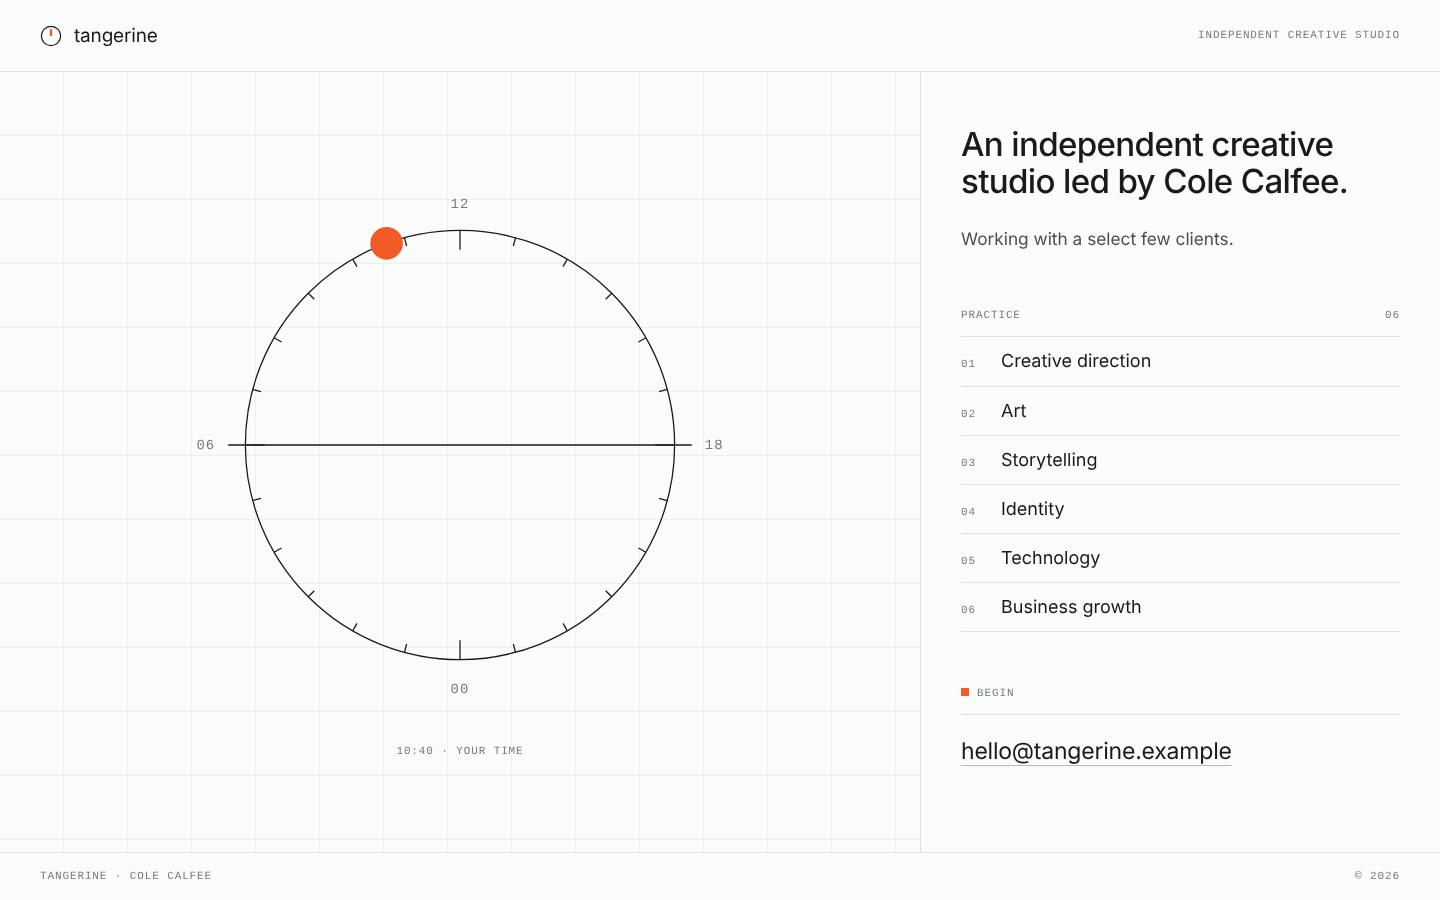
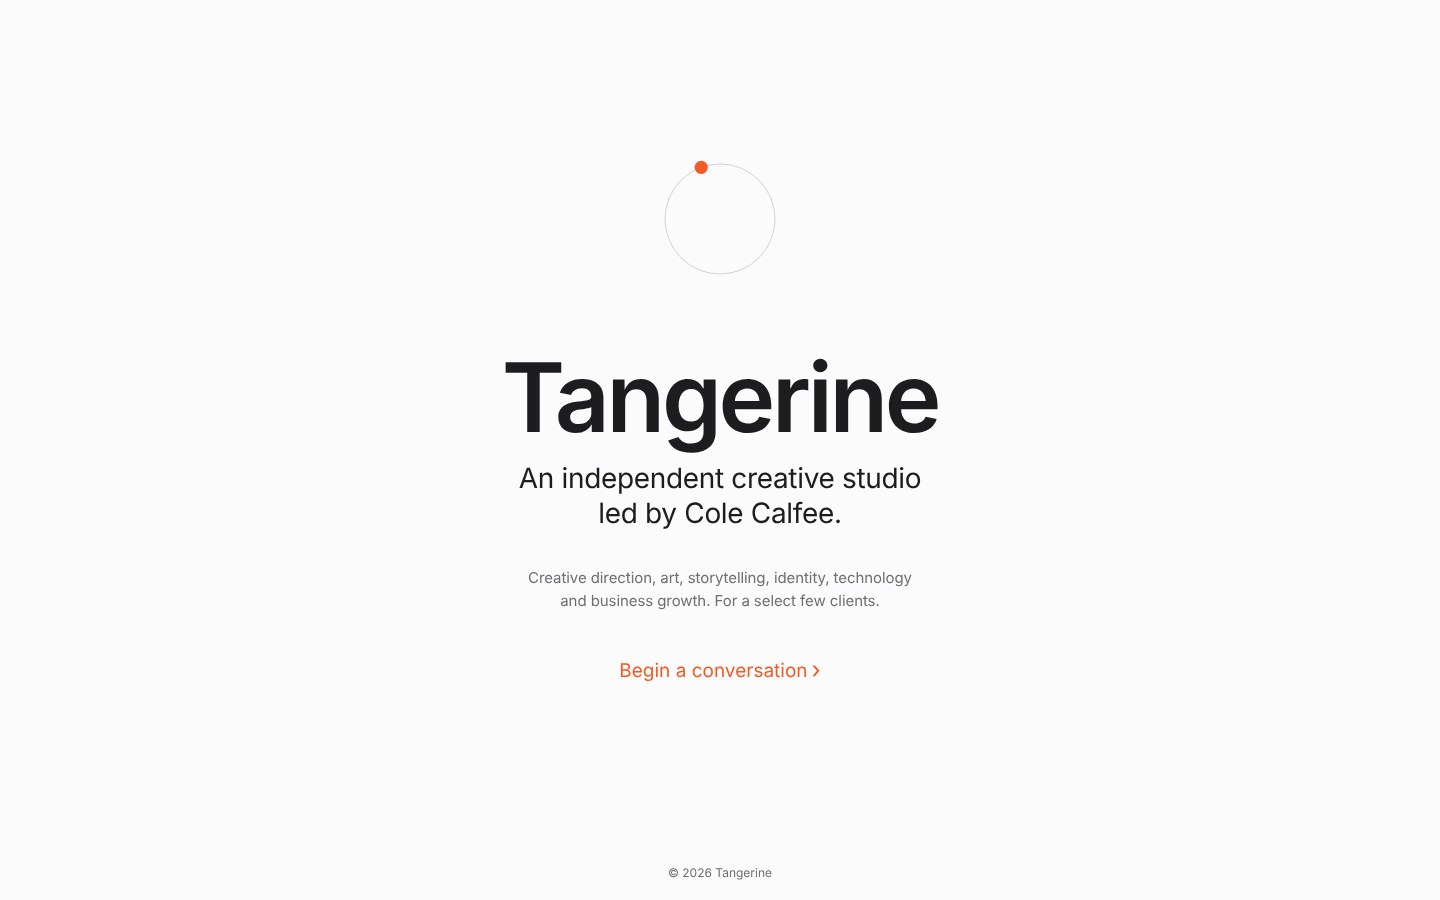
Distill studio site to a single Apple-like statement
One centred column: a thin ring whose tangerine dot is the sun at the
visitor's time, the name, one sentence, one line of disciplines and a
single link. System (SF) type, no panel, no grid, no labels.

Claude-Session: https://claude.ai/code/session_01GZLWUpjU4GW8qd2ooynPk6

diff --git a/site/assets/css/site.css b/site/assets/css/site.css
@@ -1,24 +1,14 @@
 /*
  * Tangerine — studio site.
- * Same system as the instrument studies: cyber white, hairlines, black type,
- * mono metadata, one tangerine signal. Static by default.
+ * One object, one name, one sentence, one way in.
  */
 :root {
-  --paper: #FAFBFB;
-  --paper-2: #F2F3F3;
-  --ink: #181A1B;
-  --ink-2: #4A4E50;
-  --grey: #767B7D;
-  --grey-2: #B7BBBC;
-  --rule: #DFE2E2;
-  --grid: #EEF0F0;
+  --paper: #FBFBFB;
+  --ink: #1D1D1F;
+  --grey: #6E6E73;
+  --ring: #D2D2D7;
   --tangerine: #F25A28;
-
-  --sans: "Helvetica Neue", Helvetica, Arial, system-ui, sans-serif;
-  --mono: ui-monospace, "SF Mono", Menlo, Consolas, "Liberation Mono", monospace;
-
-  --pad: clamp(20px, 3vw, 40px);
-  --bar: 72px;
+  --sans: -apple-system, BlinkMacSystemFont, "SF Pro Display", "SF Pro Text", "Helvetica Neue", Helvetica, Arial, system-ui, sans-serif;
   color-scheme: light;
 }
 
@@ -26,94 +16,48 @@
 html { -webkit-text-size-adjust: 100%; text-size-adjust: 100%; }
 body {
   margin: 0; min-height: 100vh; min-height: 100svh;
-  display: grid; grid-template-rows: auto 1fr auto;
+  display: grid; grid-template-rows: 1fr auto;
   background: var(--paper); color: var(--ink);
-  font: 400 16px/1.45 var(--sans);
-  -webkit-font-smoothing: antialiased;
+  font-family: var(--sans);
+  -webkit-font-smoothing: antialiased; -moz-osx-font-smoothing: grayscale;
 }
-h1, h2, p, ol, figure { margin: 0; }
-ol { padding: 0; list-style: none; }
-a { color: inherit; }
-:focus-visible { outline: none; box-shadow: 0 0 0 1px var(--paper), 0 0 0 2px var(--ink); }
-::selection { background: var(--ink); color: var(--paper); }
+h1, p { margin: 0; }
+::selection { background: var(--tangerine); color: #fff; }
 
-.meta {
-  font: 400 11px/1.3 var(--mono);
-  letter-spacing: .08em; text-transform: uppercase;
-  color: var(--grey); font-variant-numeric: tabular-nums;
+main {
+  display: flex; flex-direction: column; align-items: center; justify-content: center;
+  text-align: center;
+  padding: 72px 24px;
 }
 
-/* Bars */
-.bar {
-  display: flex; align-items: center; justify-content: space-between; gap: 16px;
-  min-height: var(--bar); padding: env(safe-area-inset-top) var(--pad) 0;
-  border-bottom: 1px solid var(--rule);
-}
-.bar-foot {
-  min-height: 48px; padding: 0 var(--pad) env(safe-area-inset-bottom);
-  border-bottom: 0; border-top: 1px solid var(--rule);
-}
-.brand { display: inline-flex; align-items: center; gap: 12px; min-height: 44px; text-decoration: none; font: 400 19px/1 var(--sans); letter-spacing: -.01em; }
-.mark { width: 22px; height: 22px; overflow: visible; }
-.mark circle { fill: none; stroke: var(--ink); stroke-width: 1.3; }
-.mark line { stroke: var(--tangerine); stroke-width: 2.4; }
+.object { width: clamp(88px, 11vw, 132px); height: auto; overflow: visible; margin-bottom: clamp(40px, 7vh, 64px); }
+.ring { fill: none; stroke: var(--ring); stroke-width: 1; vector-effect: non-scaling-stroke; }
+.sun { fill: var(--tangerine); }
 
-/* Face: a field and a panel, like the instrument */
-.face { display: grid; grid-template-columns: minmax(0, 1fr) minmax(360px, 520px); }
-.panel {
-  order: 2; border-left: 1px solid var(--rule);
-  padding: clamp(32px, 6vh, 64px) var(--pad);
-  display: grid; align-content: start; gap: clamp(36px, 6vh, 56px);
+h1 {
+  font-size: clamp(48px, 7.5vw, 96px); line-height: 1.04;
+  font-weight: 600; letter-spacing: -.035em;
 }
-.panel h1 { font: 500 clamp(28px, 2.3vw, 36px)/1.12 var(--sans); letter-spacing: -.02em; max-width: 14em; }
-.panel .sub { margin-top: -28px; font-size: clamp(17px, 1.2vw, 20px); color: var(--ink-2); }
-.row { display: flex; justify-content: space-between; align-items: center; padding-bottom: 14px; border-bottom: 1px solid var(--rule); }
-.signal { display: inline-block; width: 8px; height: 8px; margin-right: 8px; background: var(--tangerine); vertical-align: 0; }
-.list li {
-  display: flex; align-items: baseline; gap: 18px;
-  padding: 11px 0; border-bottom: 1px solid var(--rule);
-  font-size: 18px;
+.line {
+  margin-top: 14px;
+  font-size: clamp(21px, 2.4vw, 28px); line-height: 1.25;
+  font-weight: 400; letter-spacing: -.012em; text-wrap: balance;
 }
-.list .meta { min-width: 2em; }
-.email {
-  display: inline-block; margin-top: 16px; min-height: 44px; padding-top: 6px;
-  font: 400 clamp(20px, 1.6vw, 24px)/1.3 var(--sans); letter-spacing: -.01em;
-  text-decoration: underline; text-decoration-thickness: 1px; text-underline-offset: 6px;
-  text-decoration-color: var(--grey-2); overflow-wrap: anywhere;
+.small {
+  margin-top: clamp(28px, 4vh, 40px); max-width: 30em;
+  font-size: 15px; line-height: 1.5; color: var(--grey); letter-spacing: -.005em;
+  text-wrap: balance;
 }
-.email:hover { text-decoration-color: var(--tangerine); }
+.link {
+  margin-top: clamp(28px, 4vh, 40px);
+  display: inline-flex; align-items: center; gap: 4px; min-height: 44px;
+  font-size: clamp(17px, 1.6vw, 19px); color: var(--tangerine); text-decoration: none;
+}
+.link span { font-size: 1.25em; line-height: 1; transform: translateY(-1px); }
+.link:hover { text-decoration: underline; text-underline-offset: 4px; }
+.link:focus-visible { outline: 2px solid var(--tangerine); outline-offset: 4px; border-radius: 4px; }
 
-.field {
-  order: 1; position: relative;
-  display: grid; place-items: center; align-content: center; gap: 20px;
-  padding: var(--pad);
-  background-image:
-    linear-gradient(var(--grid) 1px, transparent 1px),
-    linear-gradient(90deg, var(--grid) 1px, transparent 1px);
-  background-size: 64px 64px; background-position: -1px -1px;
-}
-.orbit { width: min(100%, 62vh, 560px); height: auto; overflow: visible; }
-.orbit .track { fill: none; stroke: var(--ink); stroke-width: .6; }
-.orbit .horizon { stroke: var(--ink); stroke-width: .6; }
-.orbit .ticks line { stroke: var(--ink); stroke-width: .6; }
-.orbit text { font: 400 6.5px var(--mono); letter-spacing: .08em; fill: var(--grey); text-anchor: middle; dominant-baseline: middle; }
-.orbit text[text-anchor="start"] { text-anchor: start; }
-.orbit text[text-anchor="end"] { text-anchor: end; }
-.orbit .sun { fill: var(--tangerine); stroke: var(--tangerine); stroke-width: 1.2; }
-.orbit .sun.is-night { fill: var(--paper); }
-
-@media (max-width: 860px) {
-  .face { grid-template-columns: 1fr; }
-  .panel { order: 1; border-left: 0; }
-  .field { order: 2; border-top: 1px solid var(--rule); padding-block: 48px; }
-  .orbit { width: min(80vw, 380px); }
-}
-@media (max-width: 480px) {
-  .bar-note { display: none; }
-}
-
-@media print {
-  .field { display: none; }
-  .face { display: block; }
-  .panel { border: 0; }
+footer {
+  padding: 20px 24px calc(20px + env(safe-area-inset-bottom));
+  text-align: center; font-size: 12px; color: var(--grey);
 }

diff --git a/site/index.html b/site/index.html
@@ -3,13 +3,13 @@
 <head>
 <meta charset="utf-8">
 <meta name="viewport" content="width=device-width, initial-scale=1, viewport-fit=cover">
-<title>Tangerine — Independent creative studio</title>
-<meta name="description" content="Tangerine is an independent creative studio led by Cole Calfee, working with a select few clients.">
-<meta name="theme-color" content="#FAFBFB">
+<title>Tangerine</title>
+<meta name="description" content="An independent creative studio led by Cole Calfee.">
+<meta name="theme-color" content="#FBFBFB">
 <meta name="color-scheme" content="light">
 <meta property="og:type" content="website">
 <meta property="og:title" content="Tangerine">
-<meta property="og:description" content="An independent creative studio led by Cole Calfee, working with a select few clients.">
+<meta property="og:description" content="An independent creative studio led by Cole Calfee.">
 <meta property="og:image" content="assets/og.png">
 <meta name="twitter:card" content="summary_large_image">
 <link rel="icon" href="assets/favicon.svg" type="image/svg+xml">
@@ -17,58 +17,19 @@
 </head>
 <body>
 
-<header class="bar">
-  <a class="brand" href="./" aria-label="Tangerine">
-    <svg class="mark" viewBox="-12 -12 24 24" aria-hidden="true"><circle r="10.5"/><line x1="0" y1="0" x2="0" y2="-7.5"/></svg>
-    <span>tangerine</span>
-  </a>
-  <p class="meta bar-note">Independent creative studio</p>
-</header>
+<main>
+  <svg class="object" viewBox="-60 -60 120 120" aria-hidden="true">
+    <circle class="ring" r="50"/>
+    <circle class="sun" r="6" cx="0" cy="-50"/>
+  </svg>
 
-<main class="face">
-
-  <section class="panel" aria-labelledby="studio">
-    <h1 id="studio">An independent creative studio led by Cole&nbsp;Calfee.</h1>
-    <p class="sub">Working with a select few clients.</p>
-
-    <div class="block">
-      <h2 class="meta row"><span>Practice</span><span>06</span></h2>
-      <ol class="list">
-        <li><span class="meta">01</span>Creative direction</li>
-        <li><span class="meta">02</span>Art</li>
-        <li><span class="meta">03</span>Storytelling</li>
-        <li><span class="meta">04</span>Identity</li>
-        <li><span class="meta">05</span>Technology</li>
-        <li><span class="meta">06</span>Business growth</li>
-      </ol>
-    </div>
-
-    <div class="block">
-      <h2 class="meta row"><span><i class="signal" aria-hidden="true"></i>Begin</span></h2>
-      <a class="email" href="mailto:hello@tangerine.example">hello@tangerine.example</a>
-    </div>
-  </section>
-
-  <figure class="field" aria-hidden="true">
-    <svg class="orbit" viewBox="-130 -130 260 260">
-      <circle class="track" r="100"/>
-      <g class="ticks"></g>
-      <line class="horizon" x1="-108" y1="0" x2="108" y2="0"/>
-      <text x="0" y="-112">12</text>
-      <text x="114" y="0" text-anchor="start">18</text>
-      <text x="-114" y="0" text-anchor="end">06</text>
-      <text x="0" y="114">00</text>
-      <circle class="sun" r="7" cx="0" cy="-100"/>
-    </svg>
-    <figcaption class="meta"><span class="now">--:--</span> &middot; Your time</figcaption>
-  </figure>
-
+  <h1>Tangerine</h1>
+  <p class="line">An independent creative studio<br class="br"> led by Cole Calfee.</p>
+  <p class="small">Creative direction, art, storytelling, identity, technology and business growth. For a select few clients.</p>
+  <a class="link" href="mailto:hello@tangerine.example">Begin a conversation <span aria-hidden="true">&rsaquo;</span></a>
 </main>
 
-<footer class="bar bar-foot">
-  <p class="meta">Tangerine &middot; Cole Calfee</p>
-  <p class="meta">&copy; 2026</p>
-</footer>
+<footer>&copy; 2026 Tangerine</footer>
 
 <script src="assets/js/site.js" defer></script>
 </body>

diff --git a/site/assets/js/site.js b/site/assets/js/site.js
@@ -1,40 +1,19 @@
 /*
- * Tangerine — the orbit.
- * One dot for the sun, placed by the visitor's own clock: 06 at the left,
- * 12 at the top, 18 at the right. Above the line by day, below it by night.
- * Computed on the device; nothing is sent or stored.
+ * The tangerine dot is the sun, placed on the ring by the visitor's own
+ * clock: noon at the top, midnight at the bottom. Computed on the device;
+ * nothing is sent or stored. Without JavaScript it rests at noon.
  */
 (() => {
   'use strict';
-  const svg = document.querySelector('.orbit');
-  if (!svg) return;
-  const ns = 'http://www.w3.org/2000/svg';
-  const R = 100;
-
-  const ticks = svg.querySelector('.ticks');
-  for (let h = 0; h < 24; h++) {
-    const a = h / 24 * Math.PI * 2;
-    const long = h % 6 === 0;
-    const r2 = R - (long ? 9 : 4);
-    const l = document.createElementNS(ns, 'line');
-    l.setAttribute('x1', (-R * Math.sin(a)).toFixed(2));
-    l.setAttribute('y1', (R * Math.cos(a)).toFixed(2));
-    l.setAttribute('x2', (-r2 * Math.sin(a)).toFixed(2));
-    l.setAttribute('y2', (r2 * Math.cos(a)).toFixed(2));
-    ticks.appendChild(l);
-  }
-
-  const sun = svg.querySelector('.sun');
-  const label = document.querySelector('.now');
+  const sun = document.querySelector('.sun');
+  if (!sun) return;
+  const R = 50;
   function place() {
     const d = new Date();
-    const h = d.getHours() + d.getMinutes() / 60;
-    const a = h / 24 * Math.PI * 2;
+    const a = (d.getHours() + d.getMinutes() / 60) / 24 * Math.PI * 2;
     sun.setAttribute('cx', (-R * Math.sin(a)).toFixed(2));
     sun.setAttribute('cy', (R * Math.cos(a)).toFixed(2));
-    sun.classList.toggle('is-night', h < 6 || h >= 18);
-    if (label) label.textContent = String(d.getHours()).padStart(2, '0') + ':' + String(d.getMinutes()).padStart(2, '0');
   }
   place();
-  setInterval(place, 30000);
+  setInterval(place, 60000);
 })();

diff --git a/site/README.md b/site/README.md
@@ -6,27 +6,22 @@ A one-screen website for Tangerine, the independent creative studio led by Cole 
 
 ## The idea
 
-The site is built like Tangerine's own instruments (the TABLET and foundation studies):
-- cyber-white field, black type and monospace labels;
-- hairline rules;
-- one tangerine signal marking the single action (■ Begin);
-- a work field beside a side panel;
-- no motion.
+Apple-style restraint: one object, one name, one sentence, one way in.
 
-The panel says only what is needed: who leads the studio, that it works with a select few clients, the six disciplines, and how to begin.
-
-The field holds one diagram, an **orbit**. The tangerine dot is the sun, placed by the visitor's own clock: 06 at the horizon on the left, 12 at the top, 18 on the right. By day it is solid and above the line; at night it is hollow and below. It is computed on the device, and nothing is sent or stored.
+The page is a single centred column on a near-white field. The object is a thin ring with one tangerine dot, which is the sun placed by the visitor's own clock (noon at the top, midnight at the bottom). Below it: **Tangerine**, "An independent creative studio led by Cole Calfee.", one quiet line naming the six disciplines and the select-client model, and a single tangerine link, *Begin a conversation ›*.
 
 ## History
 
-The earlier, fuller "First Light" versions (a scroll-driven day) are in git history at `c5a92b8` and `b092e3a`.
+Earlier directions are in git history:
+- `c5a92b8`: First Light, a scroll-driven day.
+- `b092e3a`: First Light, simplified.
+- `524ede7`: the instrument panel.
 
 ## Craft
 
-- **Shared design system:** uses the same tokens as `system/tangerine.css` on the foundation study: `#FAFBFB` paper, `#181A1B` ink, `#DFE2E2` hairline, `#F25A28` tangerine.
-- **System fonts only:** Helvetica Neue / system sans and system mono.
-- **No dependencies:** no framework, build step, cookies, analytics or third-party requests. About 1 KB of JavaScript.
-- **Without JavaScript:** the page renders fully; the orbit shows the sun at noon.
+- **System fonts:** Apple's own SF Pro on Apple devices, falling back to Helvetica Neue and system sans elsewhere.
+- **No dependencies:** no framework, build step, cookies, analytics or third-party requests. The JavaScript is a few lines that place the dot.
+- **Without JavaScript:** the dot rests at noon.
 
 ## Preview locally
 
